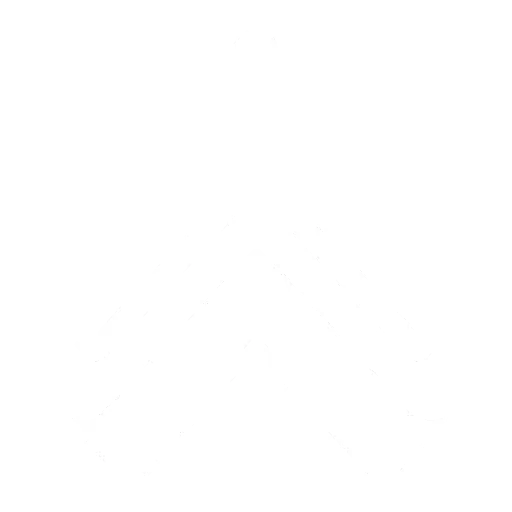
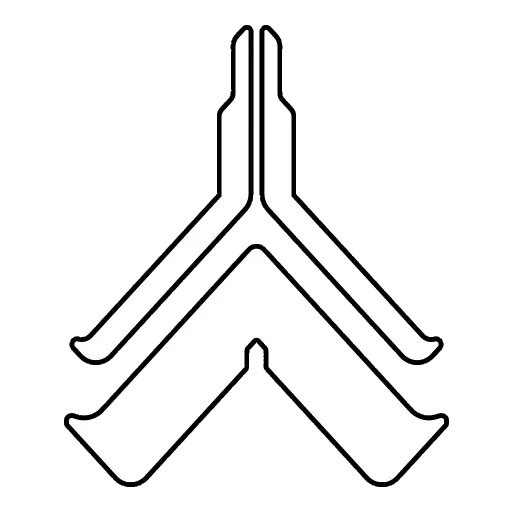
Update `descendia` cmd & image improvement

diff --git a/src/commands/reg_cmd_mt.py b/src/commands/reg_cmd_mt.py
@@ -143,6 +143,28 @@ async def register_maintenance_cmds(tree: discord.app_commands.CommandTree) -> N
     ):
         await cmd_helper_maintenance(interact, "fissures")
 
+    # deep-archimedea command
+    @discord.app_commands.checks.cooldown(
+        1, COOLDOWN_DEFAULT, key=lambda i: (i.guild_id, i.user.id)
+    )
+    @tree.command(
+        name=ts.get(f"cmd.deep-archimedea.cmd"),
+        description=ts.get(f"cmd.deep-archimedea.desc"),
+    )
+    async def cmd_alerts(interact: discord.Interaction):
+        await cmd_helper_maintenance(interact, "deep-archimedea")
+
+    # temporal-archimedea command
+    @discord.app_commands.checks.cooldown(
+        1, COOLDOWN_DEFAULT, key=lambda i: (i.guild_id, i.user.id)
+    )
+    @tree.command(
+        name=ts.get(f"cmd.temporal-archimedea.cmd"),
+        description=ts.get(f"cmd.temporal-archimedea.desc"),
+    )
+    async def cmd_alerts(interact: discord.Interaction):
+        await cmd_helper_maintenance(interact, "temporal-archimedea")
+
     # @tree.command(
     #     name=ts.get(f"cmd.duviri-cycle.cmd"),
     #     description=ts.get(f"cmd.duviri-cycle.desc"),
@@ -254,6 +276,36 @@ async def register_maintenance_cmds(tree: discord.app_commands.CommandTree) -> N
     ) -> None:
         await cmd_helper_maintenance(interact, "complain")
 
+    @discord.app_commands.checks.cooldown(
+        1, COOLDOWN_DEFAULT, key=lambda i: (i.guild_id, i.user.id)
+    )
+    @tree.command(
+        name=ts.get(f"cmd.alert-set.cmd"),
+        description=ts.get(f"cmd.alert-set.desc"),
+    )
+    async def noti_subscribe(interact: discord.Interaction):
+        await cmd_helper_maintenance(interact, "alert-set")
+
+    @discord.app_commands.checks.cooldown(
+        1, COOLDOWN_DEFAULT, key=lambda i: (i.guild_id, i.user.id)
+    )
+    @tree.command(
+        name=ts.get(f"cmd.alert-delete.cmd"),
+        description=ts.get(f"cmd.alert-delete.desc"),
+    )
+    async def noti_unsubscribe(interact: discord.Interaction):
+        await cmd_helper_maintenance(interact, "alert-delete")
+
+    @discord.app_commands.checks.cooldown(
+        1, COOLDOWN_DEFAULT, key=lambda i: (i.guild_id, i.user.id)
+    )
+    @tree.command(
+        name=ts.get(f"cmd.descendia.cmd"),
+        description=ts.get(f"cmd.descendia.desc"),
+    )
+    async def cmd_descendia(interact: discord.Interaction):
+        await cmd_helper_maintenance(interact, "descendia")
+
 
 async def register_mt_sub_cmds(tree: discord.app_commands.CommandTree) -> None:
     # search 'warframe.market' commnad
@@ -357,6 +409,20 @@ async def register_mt_sub_cmds(tree: discord.app_commands.CommandTree) -> None:
             if current.lower() in name.lower()
         ]
         return choices[:25]
+
+    # warn or ban user
+    @discord.app_commands.checks.cooldown(
+        1, COOLDOWN_DEFAULT, key=lambda i: (i.guild_id, i.user.id)
+    )
+    @tree.command(
+        name=ts.get(f"cmd.user-ban.cmd"),
+        description=ts.get("cmd.user-ban.desc"),
+    )
+    async def cmd_user_warn(
+        interact: discord.Interaction,
+        member: discord.Member,
+    ) -> None:
+        await cmd_helper_maintenance(interact, "user-ban")
 
 
 async def register_mt_ko_cmds(tree: discord.app_commands.CommandTree) -> None:
@@ -464,3 +530,20 @@ async def register_mt_ko_cmds(tree: discord.app_commands.CommandTree) -> None:
             if current.lower() in name.lower()
         ]
         return choices[:25]
+
+    # warn or ban user
+    @discord.app_commands.checks.cooldown(
+        1, COOLDOWN_DEFAULT, key=lambda i: (i.guild_id, i.user.id)
+    )
+    @tree.command(
+        name=ts.get(f"cmd.user-ban.cmd"),
+        description=ts.get("cmd.user-ban.desc"),
+    )
+    @discord.app_commands.describe(
+        사용자_아이디=ts.get(f"cmd.user-ban.desc-uid"),
+    )
+    async def cmd_user_warn(
+        interact: discord.Interaction,
+        사용자_아이디: discord.Member,
+    ) -> None:
+        await cmd_helper_maintenance(interact, f"user-warn:{사용자_아이디}")

diff --git a/src/parser/descendia.py b/src/parser/descendia.py
@@ -1,0 +1,72 @@
+import discord
+import datetime as dt
+
+from src.translator import ts, language as lang
+from src.utils.times import convert_remain, timeNow, KST
+from src.utils.data_manager import json_load, get_obj
+
+descendiaLanguage = json_load(f"data/{lang}/descendiaLanguages.json")
+
+
+def getDescendiaChallenge(challenge: str) -> str:
+    return descendiaLanguage.get("challenge", {}).get(challenge, {})
+
+
+def getDescendiaMiss(mission: str) -> str:
+    return descendiaLanguage.get("missionType", {}).get(mission, {})
+
+
+pf: str = "cmd.descendia."
+format_string = "%Y-%m-%d %H:%M:%S"
+
+
+def parseDate(timestamp: int) -> str:
+    return dt.datetime.strftime(
+        dt.datetime.fromtimestamp(int(timestamp), KST), format_string
+    )
+
+
+def check_date(start: str, end: str) -> bool:
+    start = int(start)
+    end = int(end)
+    if start < timeNow() < end:
+        return True
+    return False
+
+
+def w_descendia(descendia) -> tuple:
+    if not descendia:
+        return ts.get("general.error-cmd")
+
+    this_week_content = None
+    this_week_index: int = 0
+    output_msg: str = ""
+
+    # find this week's descendia challenges
+    for item in descendia:
+        activation_time: int = int(item["Activation"]["$date"]["$numberLong"][:10])
+        expiry_time: int = int(item["Expiry"]["$date"]["$numberLong"][:10])
+        if activation_time <= timeNow() <= expiry_time:
+            this_week_content = item
+            break
+
+        this_week_index += 1
+
+    output_msg += ts.get(f"{pf}title")
+
+    if not this_week_content:
+        output_msg = "ERROR: Descendia Content Not Found"
+
+    for challenge in descendia[this_week_index]["Challenges"]:
+        output_msg += f"{challenge['Index']:2d}. {getDescendiaMiss(challenge['Type'])} - {getDescendiaChallenge(challenge['Challenge'])}\n"
+
+    f = "descendia"
+    embed = discord.Embed(description=output_msg, color=0x883F0A)
+    embed.set_thumbnail(url="attachment://i.webp")
+    return embed, f
+
+
+# from src.constants.keys import DESCENDIA
+
+# TEST_OBJECT = get_obj(DESCENDIA)
+# print(w_descendia(TEST_OBJECT)[0].description)

diff --git a/src/commands/reg_cmd.py b/src/commands/reg_cmd.py
@@ -43,6 +43,7 @@ from src.constants.keys import (
     # VALLISCYCLE,
     DUVIRI_ROTATION,
     EVENTS,
+    DESCENDIA,
 )
 
 from src.parser.alerts import w_alerts
@@ -64,6 +65,7 @@ from src.parser.vallisCycle import w_vallisCycle
 from src.parser.marketsearch import w_market_search, get_market_item_names
 from src.parser.duviriRotation import w_duviri_warframe, w_duviri_incarnon
 from src.parser.events import w_events
+from src.parser.descendia import w_descendia
 
 
 async def register_main_cmds(tree: discord.app_commands.CommandTree, db_pool) -> None:
@@ -416,6 +418,16 @@ async def register_main_cmds(tree: discord.app_commands.CommandTree, db_pool) ->
     )
     async def noti_unsubscribe(interact: discord.Interaction):
         await noti_unsubscribe_helper(interact)
+
+    @discord.app_commands.checks.cooldown(
+        1, COOLDOWN_DEFAULT, key=lambda i: (i.guild_id, i.user.id)
+    )
+    @tree.command(
+        name=ts.get(f"cmd.descendia.cmd"),
+        description=ts.get(f"cmd.descendia.desc"),
+    )
+    async def cmd_descendia(interact: discord.Interaction):
+        await cmd_helper(interact, key=DESCENDIA, parser_func=w_descendia)
 
 
 async def register_sub_cmds(tree: discord.app_commands.CommandTree, db_pool) -> None:

diff --git a/src/utils/file_io.py b/src/utils/file_io.py
@@ -47,7 +47,7 @@ def save_file(filepath: str, content: str) -> None:
 # json
 
 
-def json_load(file_path):
+def json_load(file_path) -> dict:
     """
     read json file at provided path and return
 
